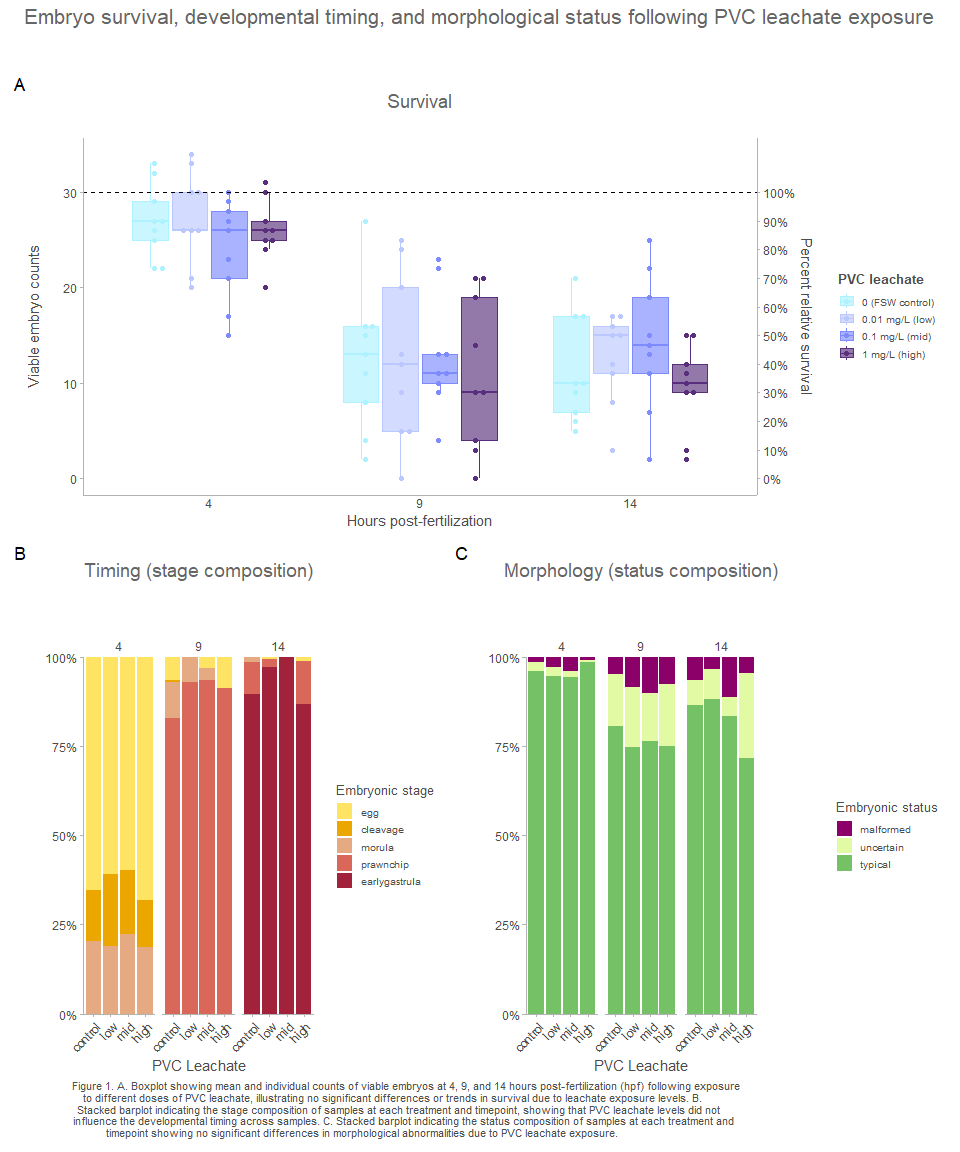
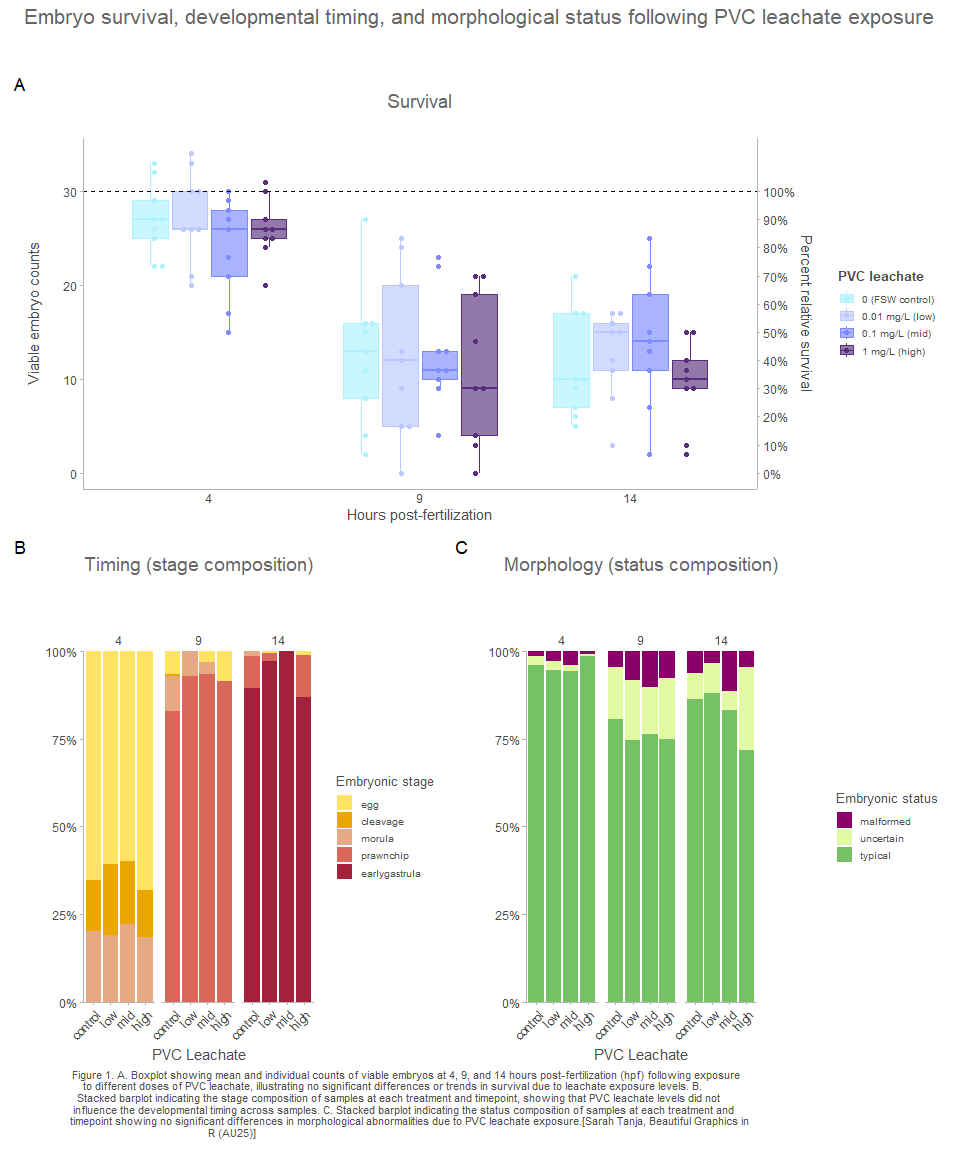
created trial_n_error folder and moved code there that belongs

diff --git a/code/figure.md b/code/figure.md
@@ -345,7 +345,7 @@ ggsave("../figs/embryo_status_stackedbar.png", width = 8, height = 6, dpi = 600)
 
 ``` r
 cap_text <- paste(
-  "Figure 1. A. Boxplot showing mean and individual counts of viable embryos at 4, 9, and 14 hours post-fertilization (hpf) following exposure to different doses of PVC leachate, illustrating no significant differences or trends in survival due to leachate exposure levels. B. Stacked barplot indicating the stage composition of samples at each treatment and timepoint, showing that PVC leachate levels did not influence the developmental timing across samples. C. Stacked barplot indicating the status composition of samples at each treatment and timepoint showing no significant differences in morphological abnormalities due to PVC leachate exposure."
+  "Figure 1. A. Boxplot showing mean and individual counts of viable embryos at 4, 9, and 14 hours post-fertilization (hpf) following exposure to different doses of PVC leachate, illustrating no significant differences or trends in survival due to leachate exposure levels. B. Stacked barplot indicating the stage composition of samples at each treatment and timepoint, showing that PVC leachate levels did not influence the developmental timing across samples. C. Stacked barplot indicating the status composition of samples at each treatment and timepoint showing no significant differences in morphological abnormalities due to PVC leachate exposure.[Sarah Tanja, Beautiful Graphics in R (AU25)]"
 )
 
 # wrap to, say, 100 characters per line (tweak as needed)
